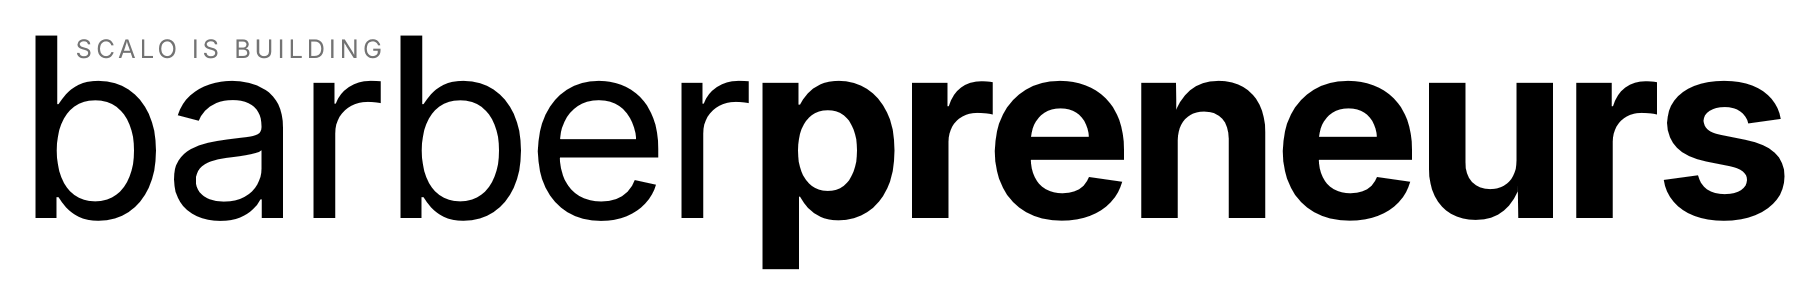
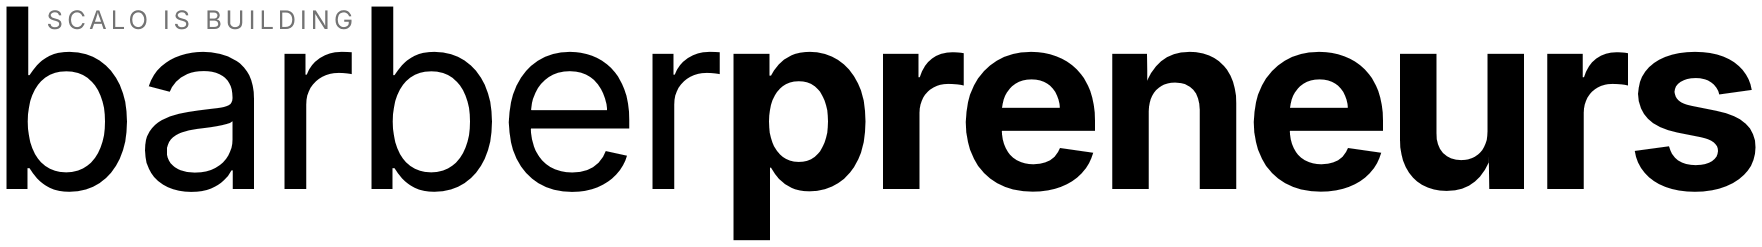
Barberpreneur: tighten spacing under the lockup, enlarge the definition
- Re-trim the lockup image tight so the gap to the "noun" line closes up
  (now ~6px).
- Reduce the gap from "noun" to the definition (~13px).
- Bump the definition to ~15.5px (from ~13px) so it reads clearly, still
  two lines with the bold pay-off tail.

Changed region(s): [[0.0, 0.0283, 0.9989, 0.9919]]

diff --git a/book-a-call/index.html b/book-a-call/index.html
@@ -541,11 +541,11 @@ fbq('track', 'ViewContent', { content_name: 'SCALO Booking Page', content_catego
   /* 2. wordmark lockup — supplied as a transparent image */
   .bp-word{text-align:center;}
   .bp-lockup{display:block;width:100%;max-width:1120px;height:auto;margin:0 auto;}
-  .bp-ipa{margin-top:1rem;font-style:italic;font-size:.95rem;color:var(--subtle);text-align:center;}
+  .bp-ipa{margin-top:.35rem;font-style:italic;font-size:.95rem;color:var(--subtle);text-align:center;}
 
   /* 3. definition (regular, muted), quote, and hairline */
-  .bp-def{max-width:820px;margin:clamp(1.8rem,2.8vw,2.4rem) auto 0;text-align:center;font-weight:400;
-    font-size:clamp(.76rem,1vw,.84rem);line-height:1.7;color:rgba(14,14,14,0.66);}
+  .bp-def{max-width:1000px;margin:clamp(.6rem,1vw,.9rem) auto 0;text-align:center;font-weight:400;
+    font-size:clamp(.92rem,1.25vw,.97rem);line-height:1.6;color:rgba(14,14,14,0.66);}
   .bp-def strong{font-weight:700;color:var(--ink);}
   .bp-rule{width:64px;height:2px;background:var(--green-dark);margin:clamp(2.6rem,4.5vw,3.8rem) auto 0;}
 
